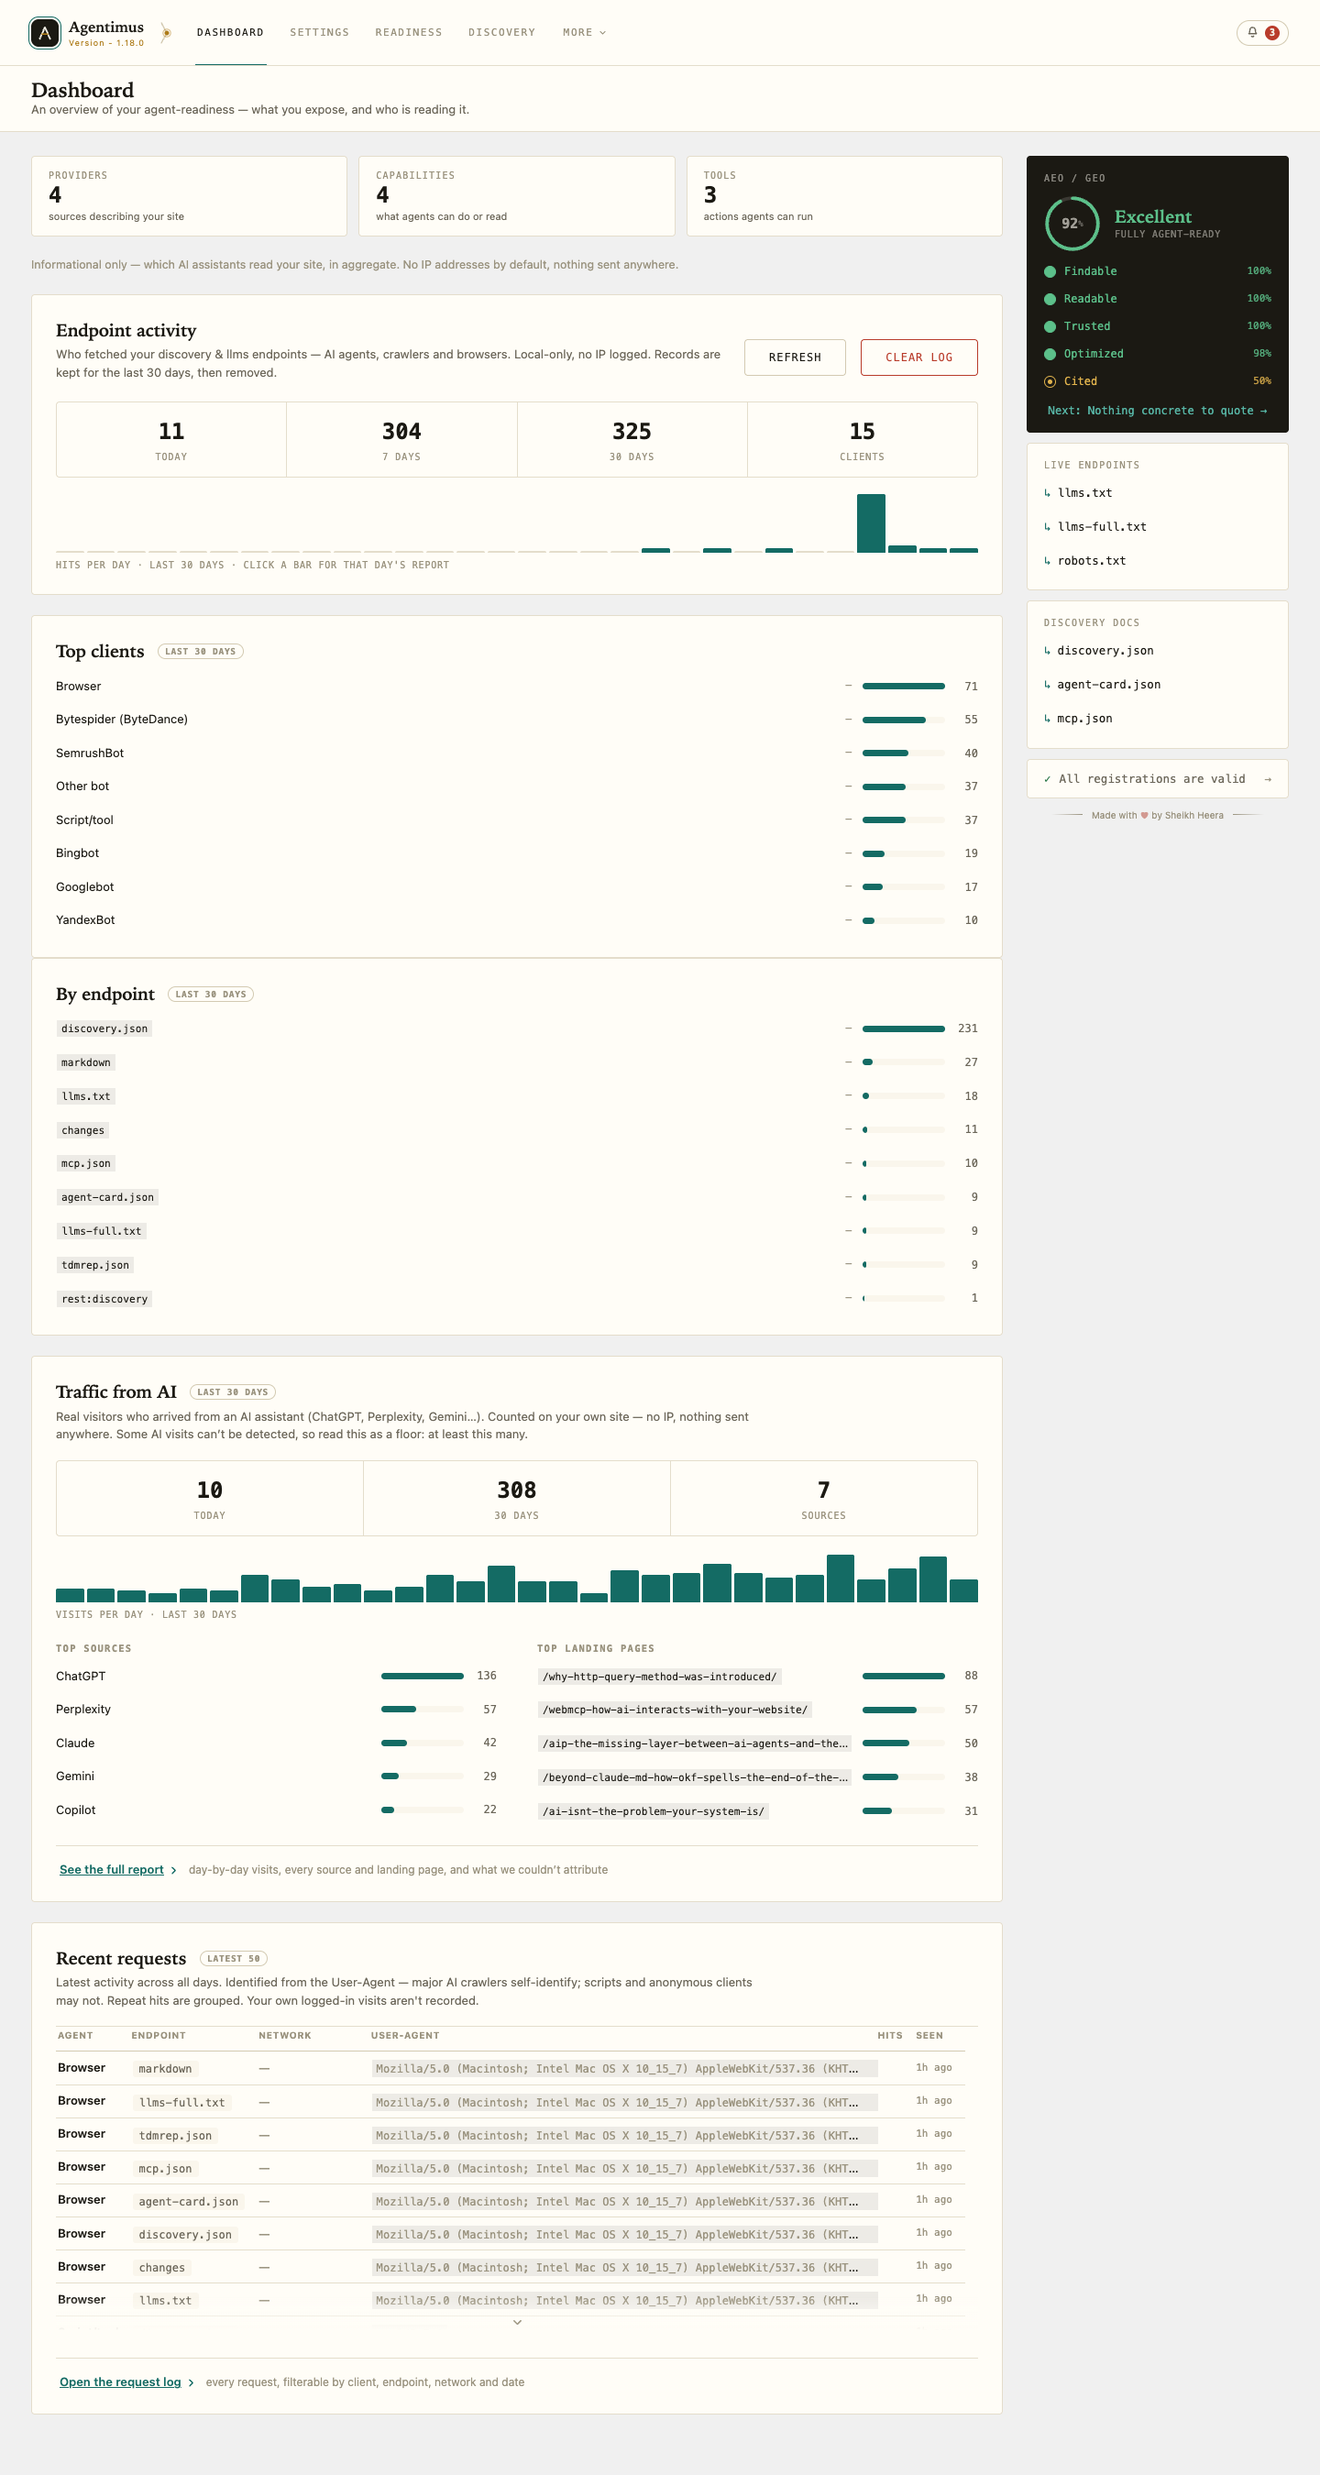
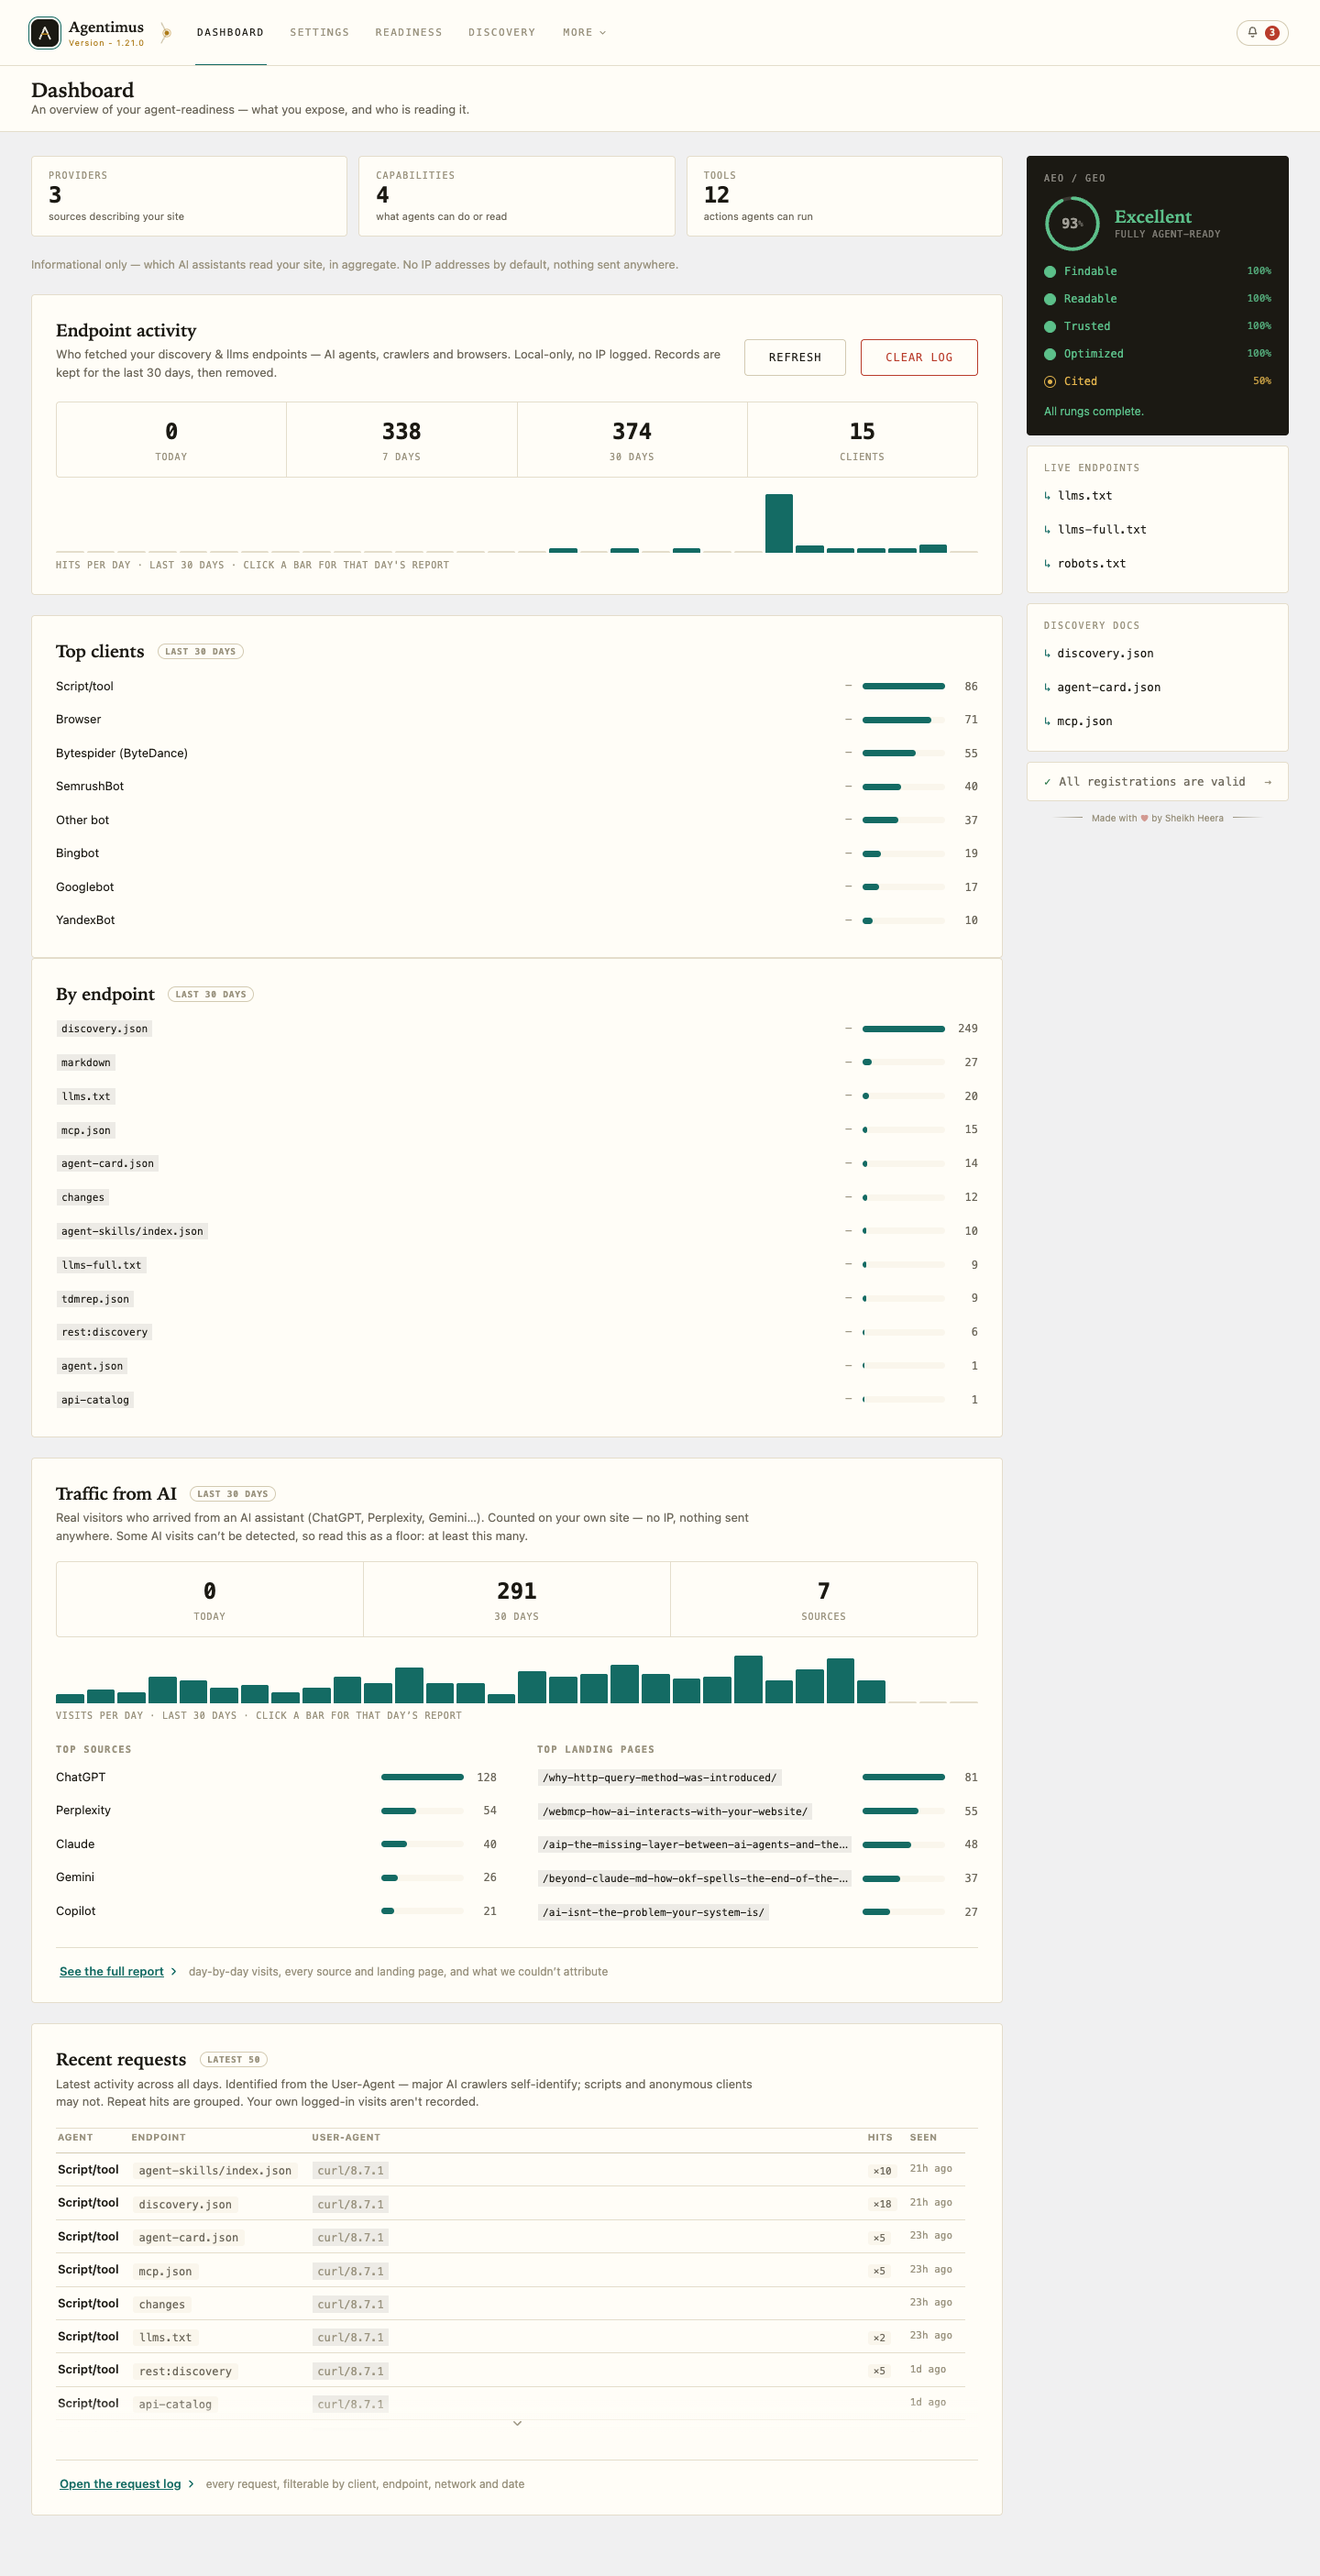
release: prepare 1.21.0
- Version 1.20.1 → 1.21.0 (plugin header + AGENTIMUS_VERSION; the
  version-keyed rewrite flush picks this up on update).
- Changelog: full 1.21.0 entry in CHANGELOG.md, user-facing digest in
  readme.txt (client decisions manager, per-day reports from both
  dashboard charts, admin colour-scheme matching, self-check token,
  honest crawler naming, verify nudge, Esc fixes).
- readme.txt: stable tag, screenshot captions 1 and 5 updated for the
  new UI, new captions 18 (client decisions) and 19 (AI-traffic day
  report).
- README.md: agent-activity, Traffic-from-AI and review-queue bullets
  updated for day reports, the self-check token and the client manager.
- Screenshots: 1 (dashboard) and 5 (AI access) re-shot on the current
  UI, new 18 and 19 captured — all at 1440w on the default colour
  scheme, shipped to WP.org by deploy.yml's ASSETS_DIR on tag.

diff --git a/agentimus.php b/agentimus.php
@@ -3,7 +3,7 @@
  * Plugin Name:       Agentimus
  * Plugin URI:        https://github.com/heera/agentimus
  * Description:       An AI-discovery layer for your site: a /.well-known discovery document, machine-readable pages (llms.txt, markdown, JSON-LD), AI-crawl controls, and a first-party agent-activity log. Lightweight, no SEO bloat.
- * Version:           1.20.1
+ * Version:           1.21.0
  * Requires at least: 6.0
  * Requires PHP:      7.4
  * Author:            Sheikh Heera
@@ -19,7 +19,7 @@ namespace Agentimus;
 
 defined( 'ABSPATH' ) || exit;
 
-define( 'AGENTIMUS_VERSION', '1.20.1' );
+define( 'AGENTIMUS_VERSION', '1.21.0' );
 define( 'AGENTIMUS_FILE', __FILE__ );
 define( 'AGENTIMUS_DIR', plugin_dir_path( __FILE__ ) );
 define( 'AGENTIMUS_URL', plugin_dir_url( __FILE__ ) );

diff --git a/README.md b/README.md
@@ -44,14 +44,14 @@ AEO/GEO-ready it is and what to fix next. Lightweight, no SEO bloat, no framewor
 - **Readiness report** — pass/warn/fail checks, each with a plain-English suggestion and a deep link to the fix (including a "sitemap advertised in robots.txt" check).
 - **Agent preview** — a modal (from Readiness) showing the exact **JSON-LD** and **Markdown** an agent receives for the site or any page/post, with a grouped site/page/post picker, copy, and validator links. It renders what *would* ship even when schema is disabled or an SEO plugin owns it; password-protected posts stay hidden, and an unpublished draft is shown as a preview of what it will emit once published. A read-only twin also sits in the post editor.
 - **AI Visibility** (opt-in, bring-your-own-key — the **Track AI citations** switch in Settings; adds the **Cited** rung to your score, and a reading expires after 90 days so a stale one never counts) — track each brand, product or person you choose across ChatGPT, Perplexity, Gemini and Claude. For every one it asks the questions your audience types and reports whether it's **mentioned, linked, and how it ranks against its own rivals**, over time. Give an item a **category** (*"WordPress SEO plugin"*) and Agentimus suggests the questions a buyer actually types — or, where an AI provider is configured in WordPress, asks that AI for a spread of unbranded buyer questions (`POST /visibility/suggest` and `/visibility/suggest-ai`). Each item has its own website, category, competitors, questions and scoreboard; pause any single one or the whole schedule, and every setting on the screen saves itself. Results are stored locally; it's the only feature that makes outbound calls — using API keys you provide (stored **encrypted at rest**), off by default. It keeps its own keys rather than reusing WordPress's shared AI connectors, because a visibility check is graded on the sources an engine **cited** and the shared client drops them.
-- **Agent activity log** — a local-only dashboard (no IP logged by default; an optional setting stores IPs for flagged crawlers only) of which AI agents and crawlers fetch your endpoints; repeat hits are grouped with a count, newest first.
+- **Agent activity log** — a local-only dashboard (no IP logged by default; an optional setting stores IPs for flagged crawlers only) of which AI agents and crawlers fetch your endpoints; repeat hits are grouped with a count, newest first. Click any day's bar for that day's full report — clients, endpoints, and every request. Your own logged-in visits are skipped, and so are the readiness screen's own Verify-live/exposure-scan fetches (they carry a short-lived `X-Agentimus-Selfcheck` token, since they're deliberately anonymous).
 - **Request log** (*More → Request log*) — the raw log behind that dashboard: one row per request, keyset-paged, filterable by client, endpoint, network, user-agent and date range. The filters AND together, giving the agent × endpoint cross-tab the summary rollups structurally cannot show.
 - **Agent access** (*More → Agent access*) — the other side of the log: who *authenticates to and acts on* the machine surface Agentimus creates. Records application passwords being created/first-used/renamed/revoked, WordPress abilities being run, and requests that were refused or probed for abilities that don't exist. A record, not a guard (it never blocks); no IP logged, so it names the credential, not the person. Rides `rest_request_after_callbacks` and the app-password hooks; the credential half needs no Abilities API, the ability half auto-detects it.
-- **Traffic from AI** — a private, first-party count of which AI assistants send *visitors* to you (per-day tallies of assistant → landing page; no IP, no per-visitor data). The dashboard shows a summary; *More → AI traffic* is the full report, with a per-day drill-down of which assistant landed on which page. An opt-in **CDN mode** counts these in the browser so the numbers survive a full-page cache. Because recognition is a finite list, an opt-in **Find missed AI sources** diagnostic records the referrer hosts and `utm_source` tags it *couldn't* attribute — the only way to see a blind spot that otherwise leaves no trace.
+- **Traffic from AI** — a private, first-party count of which AI assistants send *visitors* to you (per-day tallies of assistant → landing page; no IP, no per-visitor data). The dashboard shows a summary — click any day's bar for that day's assistant → landing-page report; *More → AI traffic* is the full report, with the same per-day drill-down. An opt-in **CDN mode** counts these in the browser so the numbers survive a full-page cache. Because recognition is a finite list, an opt-in **Find missed AI sources** diagnostic records the referrer hosts and `utm_source` tags it *couldn't* attribute — the only way to see a blind spot that otherwise leaves no trace.
 - **Visit-log retention** (*Settings → Visit log*) — a retention period, nightly auto-delete, and a hard row cap. The cap outranks the retention: "keep for 90 days" is a ceiling on age, not a promise a row survives 90 days. Turning auto-delete off does not mean "keep forever" — the cap still collects, oldest first.
 - **Keep AI endpoints out of your cache** (*Settings → Caching & CDN*, opt-in) — if a cache or CDN in front of your site serves stored copies of the AI endpoints (`llms.txt`, the `.well-known` docs, the change feed), those agent fetches never reach WordPress: the log under-counts them and the change feed can go stale. Turn this on and the endpoints send `Cache-Control: no-store`, so any cache that respects it lets each fetch through. The readiness report links to it when it detects a cache in front of you.
 - **Refresh AI files when content changes** (*Settings → Caching & CDN*, on by default) — on every content change, asks each detected page cache (WP Rocket, Nginx Helper, W3 Total Cache, LiteSpeed, WP Super Cache, Cache Enabler, or any `agentimus_purge_url` listener) to drop the AI files — `llms.txt`, `llms-full.txt`, `robots.txt`, the change feed, the `.well-known` docs — plus the edited post's own `.md` twin, which a cache plugin otherwise never knows to refresh. Feature-detected, so it's a no-op with no cache present.
-- **Activity to review** — a nav-bar review queue flags new, unusually high-volume, spoofed/scanner, or **impersonating** clients (one that claims to be a verifiable search engine — Googlebot, Bingbot, Applebot, DuckDuckBot, Yandex — but fails a reverse-DNS check), each with a plain "Check this bot" panel and one-click **Block** / **Allow** / **Ignore**. Pairs with the opt-in *Block scanners & scrapers* enforcement; an optional *Store IP addresses for flagged clients* setting shows the exact address to block.
+- **Activity to review** — a nav-bar review queue flags new, unusually high-volume, spoofed/scanner, or **impersonating** clients (one that claims to be a verifiable search engine — Googlebot, Bingbot, Applebot, DuckDuckBot, Yandex — but fails a reverse-DNS check), each with a plain "Check this bot" panel and one-click **Block** / **Allow** / **Ignore**. Pairs with the opt-in *Block scanners & scrapers* enforcement; an optional *Store IP addresses for flagged clients* setting shows the exact address to block. Every standing decision — blocked, trusted, ignored — is managed later under *Settings → AI access → Manage clients*: identity, decision date, and one-click undo per row.
 - **Exposure** — opt-in controls that limit what anonymous crawlers can read (username enumeration, author archives, the WP version, `<head>` links, XML-RPC), plus a one-click **exposed-files scan** that checks whether risky files (backups, `.env`, `debug.log`, keys) are publicly downloadable and tells you how to block them. Guidance, not a firewall.
 - **Factory reset** — one click restores every setting to its recommended defaults, with a preview of exactly what will change.
 

diff --git a/CHANGELOG.md b/CHANGELOG.md
@@ -2,6 +2,16 @@
 
 All notable changes to Agentimus. The most recent releases also appear in the plugin's `readme.txt` and on the WordPress.org listing; the complete history lives here.
 
+## 1.21.0
+* New — **Manage every client decision in one place.** Settings → AI access gains a "Manage clients" dialog: three tabs — Blocked, Allowed, Ignored — showing each client's identity (for known crawlers), when you decided, and a one-click undo (Unblock, Un-trust, Un-ignore). It's also the first UI over the review queue's "Ignore", which previously could not be seen or reversed anywhere. Decision dates are recorded from this release on (through the one seam every list edit shares, so the review queue's one-click Allow/Block and a manual chip edit both get dated); older entries simply show none rather than an invented one. Removals apply immediately and keep the open Settings form in step, so a later Save can never resurrect a removed token. Fully backward compatible — no stored format changed shape.
+* New — **Click any day's bar for that day's report.** Both dashboard charts open a day report. Endpoint activity's gains a fixed dialog size (no growing between loading and loaded, or between a quiet day and a busy one), a centered loading state that withholds half-loaded content, scroll-to-top on day switch, and a scroll hint. Traffic from AI gets a brand-new day report: which assistant sent visitors to which page, always the full day, with the same styled bar tooltips as the endpoint chart. Dialogs close on Esc or Close only — no backdrop-click close — so a stray click can't silently drop the report.
+* New — **The admin dresses to match your colour scheme.** The score card, buttons and editable chips adopt the active admin colour scheme via a hand-tuned per-scheme map (Coffee, Ectoplasm and Midnight use their exact menu colours; brighter schemes are deepened only as far as text contrast demands). The default scheme keeps the designed look; third-party schemes get a derived ink; the `agentimus_match_admin_scheme` filter opts out entirely.
+* Fixed — **Your own verification clicks no longer count as agent traffic.** "Verify live" and the exposed-files scan fetch the public endpoints anonymously by design (they grade what an agent receives), so the owner-skip couldn't recognise them and every run logged self-inflicted "Browser" hits. The fetches now carry a short-lived token in an `X-Agentimus-Selfcheck` header — minted by an admin-gated endpoint, stored only as a SHA-256 hash, valid for two minutes, compared in constant time — so the visit log skips them while an outsider can neither mint nor reuse one to hide from the log. The exposure scan carries it too, so probing your own site for `wp-config.bak` never reads as a scanner in your own records.
+* Improved — **Unknown crawlers are named more honestly.** A self-declaring client ("ethicrawl/0.1 …") is named by its own product token in the activity feed instead of the generic "Other bot" (the feed and the review queue now always agree on who a client is), and a home-page URL declared in a User-Agent is extracted with or without the "+https://" convention — still sanitised, still presented as the client's unverified claim.
+* Improved — **A heads-up when blocking is on but verification is off.** The blocking section now warns that a blocked bot can dodge name rules by claiming to be Googlebot, and points at the reverse-DNS verification toggle that closes the loophole.
+* Fixed — **Esc now closes every dialog, every time.** A dialog's Escape handler went silent once focus left the panel (one backdrop click was enough). All six affected dialogs — Agent preview, both Readiness result dialogs, reset-to-defaults, the AI Visibility failure dialog and the shared confirm — now also listen at the document for exactly as long as they're open.
+* Fixed — the admin footer's version line aligns exactly with the content edges (it was 6px off on both sides), and uninstall now removes the new decision-dates option along with everything else.
+
 ## 1.20.1
 * Fixed — **Three read-only abilities can now be run by an outside AI agent, not just listed.** Agentimus's readiness score, AI Visibility results and exposed-files check take no arguments — and a no-argument call through WordPress's abilities REST endpoint was rejected at the input gate before it ran, so an assistant could *see* these abilities but never actually *use* them. Their input schema now declares an empty-object default, so a no-argument GET normalizes correctly and runs. Your own admin screens were never affected (they call the code directly); this only touched external agents invoking abilities over REST/MCP.
 
